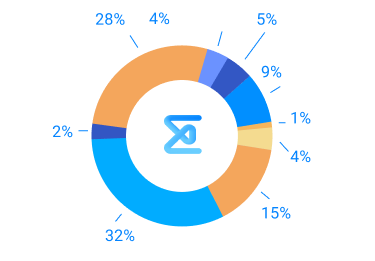
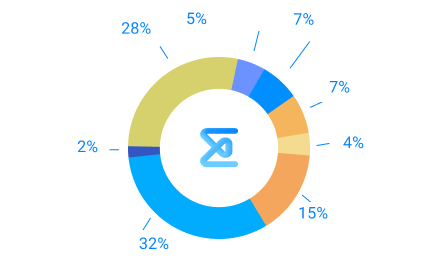
fix: fix bugs 33 34 35

diff --git a/index.html b/index.html
@@ -220,15 +220,7 @@
                   <div class="timeline__container">
                     <div class="content">
                       <div class="title">
-                        <h4>Q3-4/2021</h4>
-                        <h5>Idea and connect partners</h5>
-                      </div>
-                    </div>
-                  </div>
-                  <div class="timeline__container">
-                    <div class="content">
-                      <div class="title">
-                        <h4>1/2021</h4>
+                        <h4>1/2022</h4>
                         <h5>Seed & Public Round</h5>
                       </div>
                     </div>
@@ -276,18 +268,10 @@
           <div class="col">
             <div class="content-right">
               <div class="timeline">
-                <div class="timeline__container left">
-                  <div class="content">
-                    <div class="title">
-                      <h4>Q3-4/2021</h4>
-                      <h5>Idea and connect partners</h5>
-                    </div>
-                  </div>
-                </div>
                 <div class="timeline__container right">
                   <div class="content">
                     <div class="title">
-                      <h4>1/2021</h4>
+                      <h4>1/2022</h4>
                       <h5>Seed & Public Round</h5>
                     </div>
                   </div>
@@ -401,53 +385,45 @@
                 <tr>
                   <td scope="row">1</td>
                   <td>Seed Round </td>
-                  <td>4%</td>
-                  <td>40.000.000</td>
+                  <td>5%</td>
+                  <td>50.000.000</td>
                   <td>10%</td>
-                  <td>3 months cliff; vesting linear monthly for 16 months</td>
+                  <td>2 months cliff; vesting linear monthly for 16 months <span class="color">reversed for share holder</span></td>
                 </tr>
                 <tr>
                   <td scope="row">2</td>
                   <td>Strategic Round (Partners)</td>
-                  <td>5%</td>
-                  <td>50.000.000</td>
+                  <td>7%</td>
+                  <td>70.000.000</td>
                   <td>10%</td>
-                  <td>3 months cliff; vesting linear monthly for 16 months. Participating partners commit to use 70% of the token for rewards</td>
+                  <td>2 months cliff; vesting linear monthly for 16 months. Particpating partners commit to use 70% of the token for rewards</td>
                 </tr>
                 <tr>
                   <td scope="row">3</td>
-                  <td>Private Round</td>
-                  <td>9%</td>
-                  <td>90.000.000</td>
-                  <td>15%</td>
-                  <td>3 months cliff; vesting linear monthly for 16 months</td>
+                  <td>Public Round (Fair Launch)</td>
+                  <td>7%</td>
+                  <td>70.000.000</td>
+                  <td>20%</td>
+                  <td>1 months cliff; vesting linear monthly for 5 months</td>
                 </tr>
                 <tr>
                   <td scope="row">4</td>
-                  <td>Public Round</td>
-                  <td>1%</td>
-                  <td>10.000.000</td>
-                  <td>20%</td>
-                  <td>1 months cliff; vesting linear monthly for 4 months</td>
-                </tr>
-                <tr>
-                  <td scope="row">5</td>
                   <td>Advisors</td>
                   <td>4%</td>
                   <td>40.000.000</td>
                   <td>0%</td>
-                  <td>12 months fully locked; then  linear vesting over next 36 month</td>
+                  <td>6 months fully locked; then linear vesting over next 36 month</td>
                 </tr>
                 <tr>
-                  <td scope="row">6</td>
+                  <td scope="row">5</td>
                   <td>Founding Team</td>
                   <td>15%</td>
                   <td>150.000.000</td>
                   <td>0%</td>
-                  <td>12 months fully locked; then  linear vesting over the next 36 months</td>
+                  <td>6 months fully locked; then linear vesting over the next 36 months</td>
                 </tr>
                 <tr>
-                  <td scope="row">7</td>
+                  <td scope="row">6</td>
                   <td>Liquidity</td>
                   <td>2%</td>
                   <td>20.000.000</td>
@@ -455,20 +431,20 @@
                   <td>100% at TGE adding pool</td>
                 </tr>
                 <tr>
-                  <td scope="row">8</td>
+                  <td scope="row">7</td>
                   <td>Rewards and Marketing</td>
                   <td>32%</td>
                   <td>320.000.000</td>
                   <td>10%</td>
-                  <td>10% at TGE; then  linear vesting over the next 24 months</td>
+                  <td>10% at TGE; then linear vesting over the next 24 months</td>
                 </tr>
                 <tr>
-                  <td style="border-radius: 0 0 0 10px;" scope="row">9</td>
+                  <td style="border-radius: 0 0 0 10px;" scope="row">8</td>
                   <td>Ecosystem Fund</td>
                   <td>28%</td>
                   <td>280.000.000</td>
                   <td>0%</td>
-                  <td style="border-radius: 0 0 10px 0;">6 months fully locked; then  linear vesting over the next 60 months</td>
+                  <td style="border-radius: 0 0 10px 0;">6 months fully locked; then linear vesting over the next 60 months</td>
                 </tr>
               </tbody>
               <tfoot>
@@ -673,40 +649,36 @@
                   <div class="owl-carousel owl-theme">
                     <div class="item">
                       <div class="row">
-                        <div class="col"><div class="content__img"><img src="images/s7-founder-1.png" alt=""></div></div>
-                        <div class="col"><div class="content__img"><img src="images/s7-founder-2.png" alt=""></div></div>
-                        <div class="col"><div class="content__img"><img src="images/s7-founder-3.png" alt=""></div></div>
-                        <div class="col"><div class="content__img"><img src="images/s7-founder-4.png" alt=""></div></div>
-                        <div class="col"><div class="content__img"><img src="images/s7-founder-5.png" alt=""></div></div>
+                        <div class="col-3"><div class="content__img"><img src="images/s7-founder-1.png" alt=""></div></div>
+                        <div class="col-3"><div class="content__img"><img src="images/s7-founder-2.png" alt=""></div></div>
+                        <div class="col-3"><div class="content__img"><img src="images/s7-founder-4.png" alt=""></div></div>
+                        <div class="col-3"><div class="content__img"><img src="images/s7-founder-5.png" alt=""></div></div>
                       </div>
                     </div>
                     <div class="item">
                       <div class="row">
-                        <div class="col"><div class="content__img"><img src="images/s7-founder-1.png" alt=""></div></div>
-                        <div class="col"><div class="content__img"><img src="images/s7-founder-2.png" alt=""></div></div>
-                        <div class="col"><div class="content__img"><img src="images/s7-founder-3.png" alt=""></div></div>
-                        <div class="col"><div class="content__img"><img src="images/s7-founder-4.png" alt=""></div></div>
-                        <div class="col"><div class="content__img"><img src="images/s7-founder-5.png" alt=""></div></div>
+                        <div class="col-3"><div class="content__img"><img src="images/s7-founder-1.png" alt=""></div></div>
+                        <div class="col-3"><div class="content__img"><img src="images/s7-founder-2.png" alt=""></div></div>
+                        <div class="col-3"><div class="content__img"><img src="images/s7-founder-4.png" alt=""></div></div>
+                        <div class="col-3"><div class="content__img"><img src="images/s7-founder-5.png" alt=""></div></div>
                       </div>
                     </div>
                     <div class="item">
                       <div class="row">
-                        <div class="col"><div class="content__img"><img src="images/s7-founder-1.png" alt=""></div></div>
-                        <div class="col"><div class="content__img"><img src="images/s7-founder-2.png" alt=""></div></div>
-                        <div class="col"><div class="content__img"><img src="images/s7-founder-3.png" alt=""></div></div>
-                        <div class="col"><div class="content__img"><img src="images/s7-founder-4.png" alt=""></div></div>
-                        <div class="col"><div class="content__img"><img src="images/s7-founder-5.png" alt=""></div></div>
+                        <div class="col-3"><div class="content__img"><img src="images/s7-founder-1.png" alt=""></div></div>
+                        <div class="col-3"><div class="content__img"><img src="images/s7-founder-2.png" alt=""></div></div>
+                        <div class="col-3"><div class="content__img"><img src="images/s7-founder-4.png" alt=""></div></div>
+                        <div class="col-3"><div class="content__img"><img src="images/s7-founder-5.png" alt=""></div></div>
                       </div>
                     </div>
                   </div>
                 </div>
                 <div class="slide team__founder__slide mb">
                   <div class="row">
-                    <div class="col"><div class="content__img"><img src="images/s7-founder-1.png" alt=""></div></div>
-                    <div class="col"><div class="content__img"><img src="images/s7-founder-2.png" alt=""></div></div>
-                    <div class="col"><div class="content__img"><img src="images/s7-founder-3.png" alt=""></div></div>
-                    <div class="col"><div class="content__img"><img src="images/s7-founder-4.png" alt=""></div></div>
-                    <div class="col"><div class="content__img"><img src="images/s7-founder-5.png" alt=""></div></div>
+                    <div class="col-3"><div class="content__img"><img src="images/s7-founder-1.png" alt=""></div></div>
+                    <div class="col-3"><div class="content__img"><img src="images/s7-founder-2.png" alt=""></div></div>
+                    <div class="col-3"><div class="content__img"><img src="images/s7-founder-4.png" alt=""></div></div>
+                    <div class="col-3"><div class="content__img"><img src="images/s7-founder-5.png" alt=""></div></div>
                   </div>
                 </div>
               </div>

diff --git a/css/styles.css b/css/styles.css
@@ -536,6 +536,9 @@ body {
 .section5 .table.table--big tbody>:not(caption)>* {
   padding: 0.5rem;
 }
+.section5 .table.table--big tbody>:not(caption)>* .color{
+  color: #F4A65C;
+}
 .section5 .table .blue-color{
   color: #04F2FF;
   font-weight: 600;
